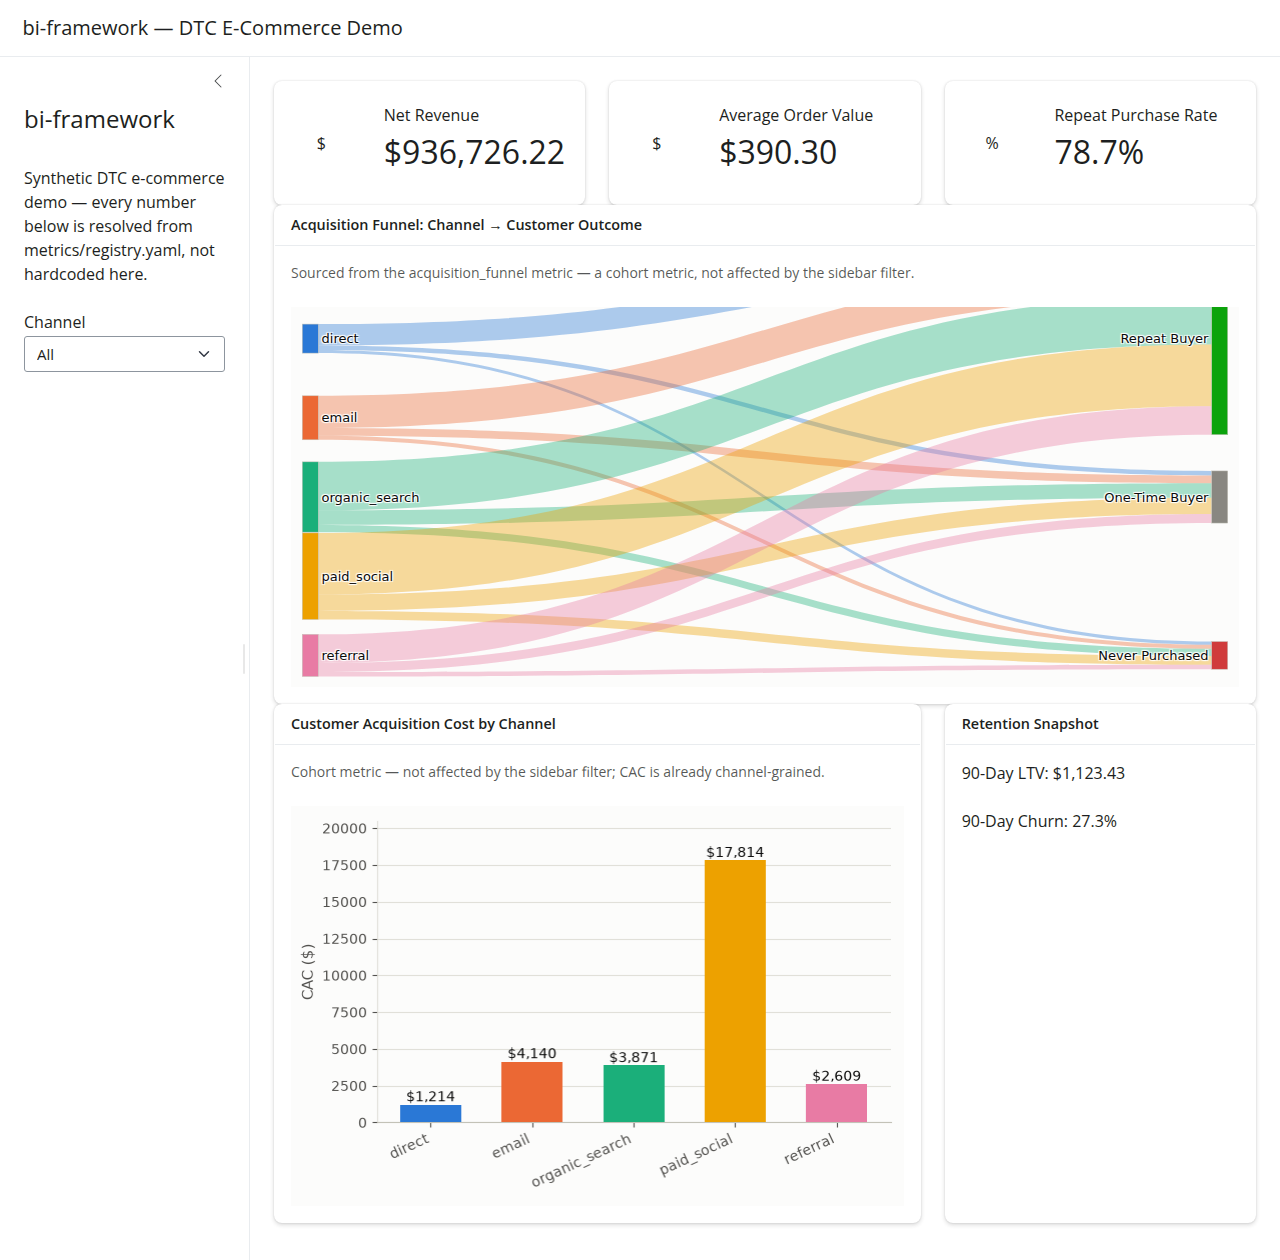
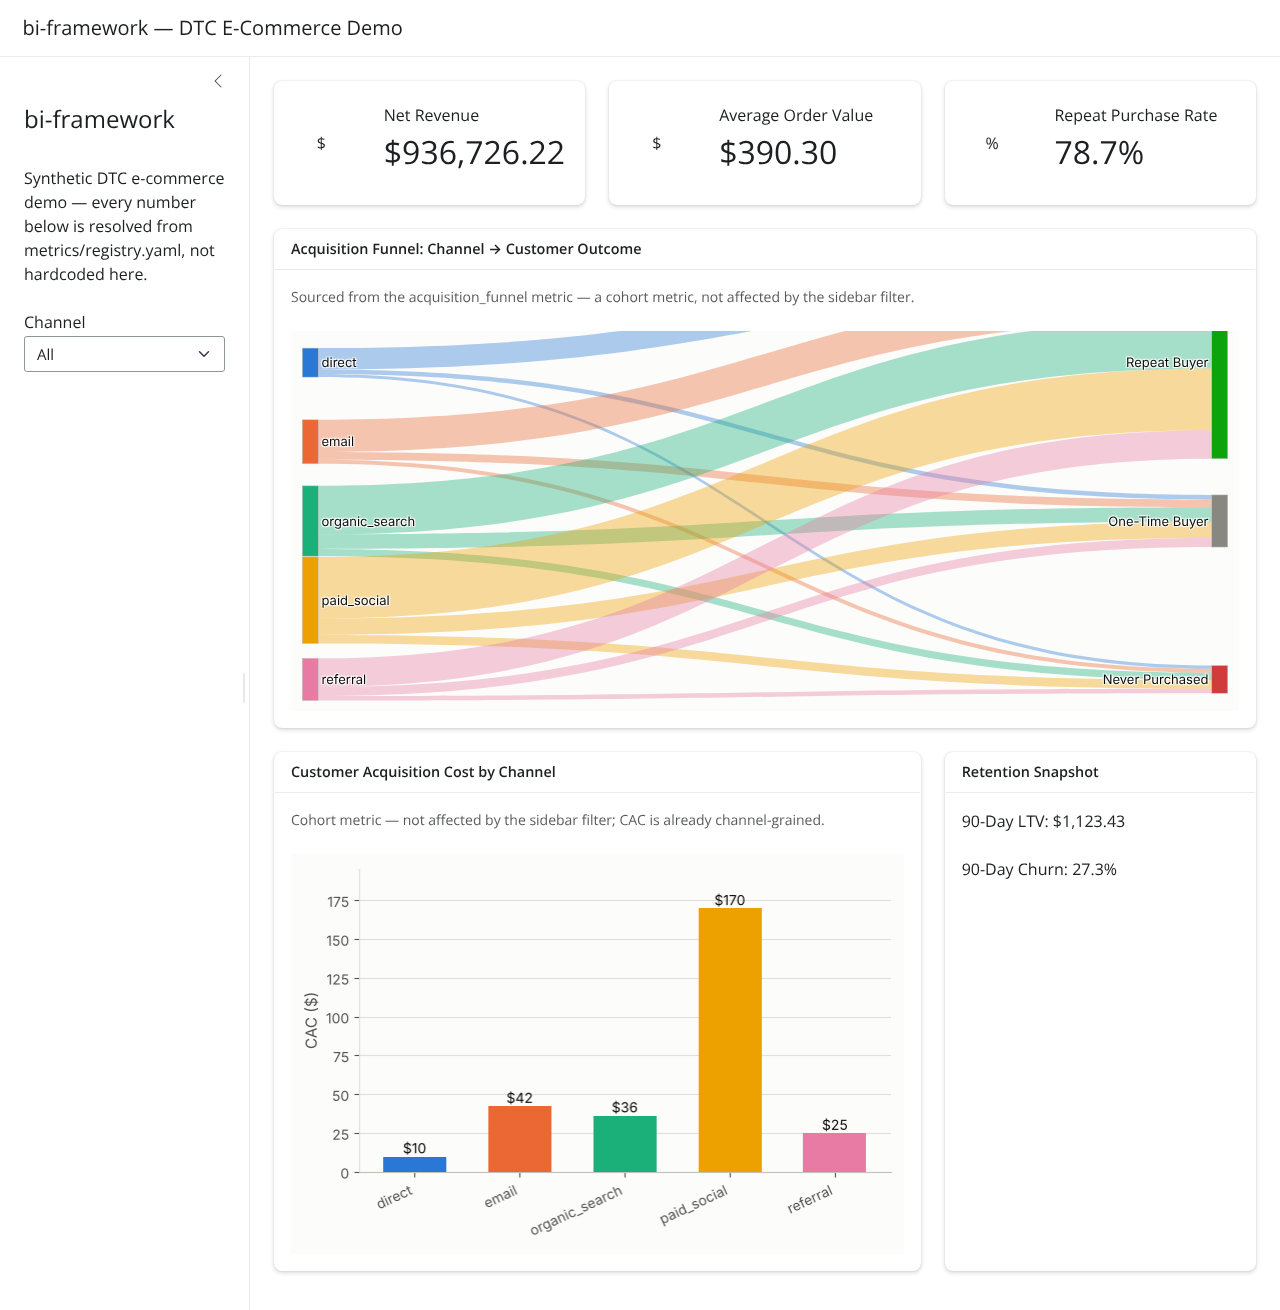
Fix spend fan-out in cac_by_channel
The CAC formula joined monthly marketing_spend rows directly to
customer-level rows before aggregating, so each channel's spend was
counted once per customer. Dividing by the distinct customer count
cancelled that out, and the "CAC" it returned was exactly each
channel's total spend (paid_social: $17,814 instead of ~$170).

Aggregate spend and first-order customer counts to channel grain
before joining, and attribute each customer to the channel of their
actual first order (the old subquery computed first_order_date but
never used it). Pin the corrected per-channel values in the test so
this class of bug fails CI instead of passing a "paid_social is max"
check. Regenerate docs/assets/dashboard.png, whose CAC chart showed the
inflated values.

Claude-Session: https://claude.ai/code/session_012jMcGmjy3a8DXTMf99geUq

diff --git a/tests/test_metrics_registry.py b/tests/test_metrics_registry.py
@@ -84,6 +84,17 @@ def test_cac_by_channel(warehouse, registry):
     # paid_social is deliberately the most expensive channel in the
     # synthetic spend model — regression check that the weighting held.
     assert df.set_index("channel").loc["paid_social", "cac"] == df["cac"].max()
+    # Pinned values. These also guard against the spend fan-out bug fixed
+    # in this formula: if spend were joined to customer rows before
+    # aggregating, CAC would equal total channel spend (~$17.8K for
+    # paid_social) instead of spend per acquired customer.
+    assert df.set_index("channel")["cac"].to_dict() == {
+        "direct": 9.79,
+        "email": 42.24,
+        "organic_search": 36.18,
+        "paid_social": 169.66,
+        "referral": 24.85,
+    }
 
 
 def test_ltv_90d(warehouse, registry):
